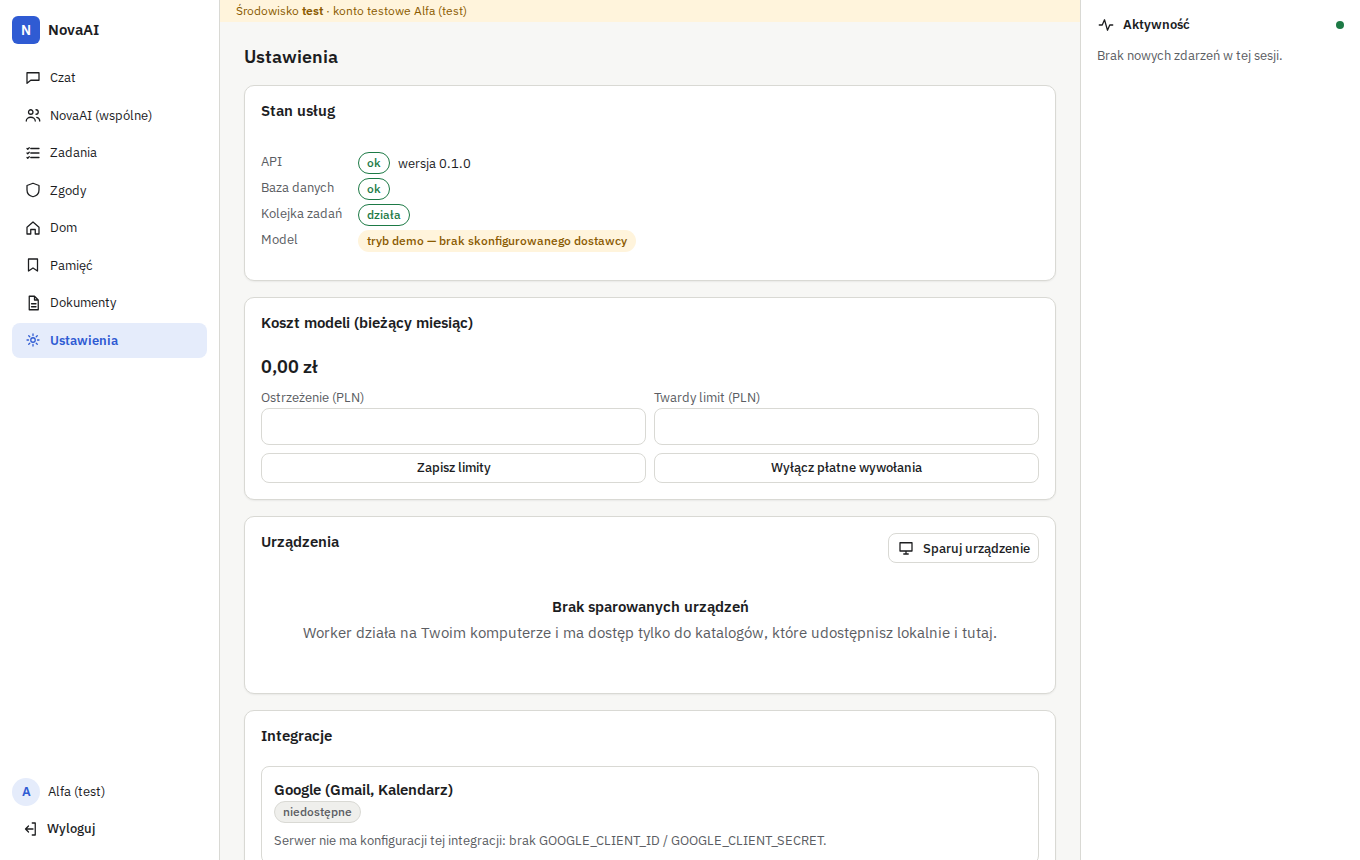
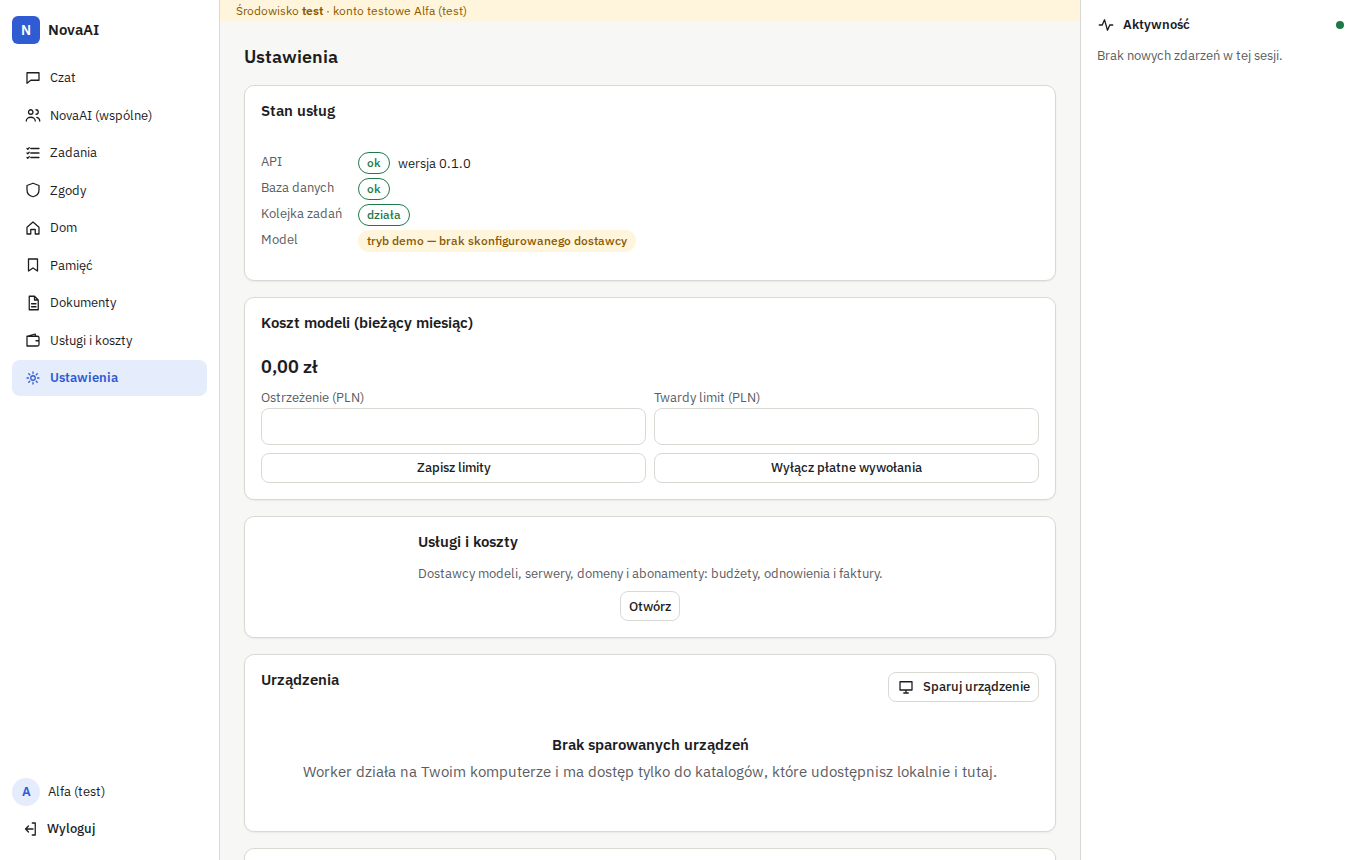
Document "Usługi i koszty" and update progress
- DECISIONS D-029: data model and privacy, one-source-per-month counting
  rule, currencies without conversion, budgets, invoice deduplication and
  CSV import, renewal reminders, no-secrets rules, Anthropic and OpenAI
  cost adapters (docs verified 2026-09-26) and their "not connected" state
- README: how to use the module and the optional admin keys
- PROGRESS: status row, stage log with test results, blockers and next
  tasks; adapters marked as verified only on a local mock
- Screenshots refreshed from e2e, including the services list and detail

Claude-Session: https://claude.ai/code/session_01KegcN2PT624rRNH8yhAa8R

diff --git a/docs/PROGRESS.md b/docs/PROGRESS.md
@@ -17,6 +17,7 @@ Aktualizowane po każdej pionowej funkcji. Tylko fakty potwierdzone poleceniami 
 | Utwardzenie              | gotowe    | limity tras bez sesji, redakcja URL w logach, `NOVA_TRUST_PROXY`, sprzątanie wygasłych artefaktów                                 |
 | Ścieżka produkcyjna      | częściowe | bundel API + frontend z API + CSP, smoke w `NOVA_ENV=production`; bez realnego serwera, TLS i domeny                              |
 | Pamięć dokumentów        | gotowe*   | PDF/TXT/Markdown, indeksowanie, wyszukiwanie po uprawnieniach, źródła w odpowiedzi, UI; *model tylko jako atrapa                  |
+| Usługi i koszty          | gotowe*   | rejestr usług, koszty i faktury, budżety, odnowienia; *adaptery raportów kosztów tylko na atrapie — niepodłączone                 |
 
 ## Dziennik
 
@@ -381,6 +382,48 @@ odtwarzającej kontrakt z dokumentacji (sprawdzonej 2026-09-26; źródła i decy
   `pnpm check` → 4/4, 27/27, 240/240, 5/5; `pnpm test:e2e` → 30/30; `pnpm test:prod-smoke` → 1/1.
 - Niesprawdzone: przeglądarka zgłaszającego (wersja nieznana) — zachowanie odtworzone symulacją.
 
+### Usługi i koszty (2026-09-26)
+
+Gałąź `claude/novaai-services-costs` od `claude/novaai-slack` (najnowsza gałąź z pamięcią dokumentów). Decyzje:
+`docs/DECISIONS.md` D-029.
+
+- Migracja `0013_services_costs.sql`: `services`, `service_costs`, `cost_adapter_runs`; RLS jak w dokumentach
+  (prywatne — właściciel; wspólne — domownicy czytają; zapis tylko właściciel). Polityka: `service.read/create/manage/
+share/unshare` (agent nie tworzy ani nie zmienia usług).
+- API: lista i szczegóły usług ze stanem miesiąca, suma miesiąca (`/api/costs/summary`), wpisy kosztów, import faktur
+  CSV, udostępnianie, „odnowiono”, adaptery (`/api/cost-adapters`, synchronizacja na żądanie).
+- Suma miesiąca: faktura > raport dostawcy > szacunek w obrębie usługi i miesiąca (bez podwójnego liczenia); szacunek
+  z zapisanych kosztów wywołań modeli; waluty osobno, bez przeliczania; budżet tylko w walucie usługi; jedno
+  powiadomienie o przekroczeniu na usługę i miesiąc.
+- Odnowienia: przypomnienia w trwałej kolejce (N dni wcześniej, 9:00 czasu polskiego), przestawiane i anulowane razem
+  z usługą; „odnowiono” zachowuje dzień miesiąca.
+- Bez haseł i kluczy: odrzucane pola wyglądające na sekrety i linki z danymi logowania; klucze administracyjne
+  adapterów tylko w konfiguracji serwera.
+- Adaptery Anthropic (Cost API) i OpenAI (Costs API) według dokumentacji z 2026-09-26; stan „niepodłączone” do czasu
+  udanej synchronizacji. **Nie sprawdzone na prawdziwych kontach** — brak kluczy administracyjnych.
+- UI: widok „Usługi i koszty” (menu boczne; na telefonie przez Ustawienia) — suma miesiąca z podziałem na faktury
+  opłacone / do zapłaty, raporty i szacunki, karty usług z budżetem i odnowieniem, szczegóły z wpisami (wpisy
+  niewliczone oznaczone), dodawanie kosztu, import CSV, udostępnianie, panel adapterów. Walidacja pokazuje konkretny
+  powód (np. „Nie wpisuj tu haseł ani kluczy API”). Zrzuty: `docs/screens/*-15-services.png`, `*-16-service-detail.png`.
+- Testy (`apps/api/src/services/services.test.ts`, 16): **izolacja** Alfa/Beta (API i RLS, udostępnienie tylko do
+  odczytu, cofnięcie, zakres NovaAI, dostawca modeli przypisany do cudzej usługi bez ujawniania nazwy); **brak
+  podwójnego liczenia** (szacunek → raport → faktura, szacunek z wywołań modeli zastąpiony fakturą, osobne miesiące);
+  **waluty** (USD/EUR/JPY osobno, budżet tylko w walucie usługi, miejsca po przecinku per waluta, nieznany kod);
+  **odnowienia** (termin i strefa czasowa, zmiana daty, anulowanie, wspólne przypomnienie dostarczone obojgu,
+  „odnowiono” 31.01 → 28/29.02 → 31.03, kwartał, rok przestępny); **budżet** (blisko limitu, przekroczenie, jedno
+  powiadomienie, faktura niższa niż raport); **powtórny import faktury** (numer z inną wielkością liter, CSV dwa razy,
+  faktura bez numeru, błędny CSV bez częściowego zapisu); **sekrety**; **adaptery** na atrapie (brak klucza,
+  stronicowanie, centy jako tekst dziesiętny, aktualizacja bez duplikatów, błąd klucza ⇒ „błąd”, OpenAI w dolarach,
+  synchronizacja tylko przez właściciela, brak kluczy w odpowiedziach i audycie). Kontrola testów: liczenie wszystkich
+  źródeł naraz i losowy klucz deduplikacji faktur powodowały porażki odpowiednich testów.
+- e2e `apps/web/e2e/services.spec.ts` (desktop + telefon): dodanie usługi, odrzucone hasło w notatkach, szacunek →
+  raport → faktura (liczona tylko faktura), przekroczony budżet, odrzucona ta sama faktura, adaptery „niepodłączone”,
+  udostępnienie Becie tylko do odczytu.
+- Polecenia i wyniki: `pnpm check` → contracts 4/4, permissions 29/29, api 256/256 (w tym usługi 16), web 5/5;
+  `pnpm test:e2e` → 32/32; `pnpm test:prod-smoke` → 1/1; `pnpm worker:test` → 18/18.
+- Niesprawdzone: synchronizacja z prawdziwymi kontami Anthropic i OpenAI (klucze administracyjne), zachowanie
+  przy dużych organizacjach (wiele stron raportu), adaptery innych dostawców (VPS, domeny — wpisy ręczne).
+
 ## Blokady
 
 - Brak demona Docker w sesji zdalnej — `infra/compose.yaml` nieprzetestowany tutaj (używany lokalny klaster).
@@ -394,6 +437,8 @@ odtwarzającej kontrakt z dokumentacji (sprawdzonej 2026-09-26; źródła i decy
   `MICROSOFT_CLIENT_ID/SECRET`, `MICROSOFT_TENANT`. Slack: aplikacja wewnętrzna z zakresami użytkownika, redirect
   HTTPS, Event Subscriptions (README → Integracje), `SLACK_CLIENT_ID/SECRET`, `SLACK_SIGNING_SECRET`.
   Wszystkie wymagają `NOVA_SECRET_KEY`.
+- Brak kluczy administracyjnych Anthropic/OpenAI — adaptery raportów kosztów sprawdzone tylko na atrapie
+  (`ANTHROPIC_ADMIN_API_KEY`, `OPENAI_ADMIN_API_KEY`; Admin API Anthropic niedostępne dla kont indywidualnych).
 - Brak kluczy API i instalacji Hermesa — adaptery modeli nie były uruchomione przeciwko prawdziwym usługom
   (świadomie: zakaz płatnych wywołań). Ceny modeli do uzupełnienia przez właściciela z oficjalnego cennika.
 
@@ -412,9 +457,9 @@ odtwarzającej kontrakt z dokumentacji (sprawdzonej 2026-09-26; źródła i decy
 ## Następne 3 zadania
 
 1. Uruchomienie z prawdziwymi usługami przez właściciela: klucz modelu + cennik w `models.local.json`, klienci OAuth
-   Google i Microsoft oraz aplikacja Slack (README → Integracje) i sprawdzenie na własnych kontach (logowanie, odczyt,
-   szkic/wysyłka po zgodzie, odłączenie i cofnięcie zgody, zdarzenia Slack), Worker na Windows.
+   Google i Microsoft, aplikacja Slack, klucze administracyjne raportów kosztów (README → Integracje) i sprawdzenie na
+   własnych kontach; Worker na Windows.
 2. Konfiguracja wdrożenia przez właściciela: reverse proxy z TLS (także redirect HTTPS dla Slacka), kopie zapasowe
-   Postgres, usługa systemowa dla `start:prod`.
-3. Poczta, Slack i dokumenty z prawdziwym modelem: ocena odporności na wstrzyknięcia (treść e-maili, wiadomości Slack,
-   dokumenty) i jakości odpowiedzi na zestawie pytań; potem Web Push (VAPID).
+   Postgres, usługa systemowa dla `start:prod`; wpisanie tych usług i ich kosztów w „Usługi i koszty”.
+3. Poczta, Slack i dokumenty z prawdziwym modelem: ocena odporności na wstrzyknięcia i jakości odpowiedzi; potem
+   Web Push (VAPID) i ewentualnie automatyczna synchronizacja raportów kosztów w tle.

diff --git a/docs/DECISIONS.md b/docs/DECISIONS.md
@@ -412,3 +412,57 @@ no-store`, tokenem pytającej osoby) oraz dla modelu w turze uzupełniającej (n
   ponowienie przetwarza zdarzenie. Odpowiedź w < 3 s (tylko operacje w bazie). Inne zdarzenia: `ignored`, bez treści.
 - Poza zakresem: powiadomienia push o nowych wzmiankach (wymagałyby subskrypcji zdarzeń wiadomości i zakresów
   `*:history`), pliki, reakcje, edycja i usuwanie wiadomości, instalacje Enterprise Grid (org-wide).
+
+## D-029 Usługi i koszty: rejestr usług, jedna opłata liczona raz, adaptery raportów kosztów
+
+Źródła adapterów (sprawdzone 2026-09-26): Anthropic — Usage and Cost API
+(platform.claude.com/docs/en/manage-claude/usage-cost-api) i referencja „Get Cost Report”
+(platform.claude.com/docs/en/api/beta/organization/cost_report/retrieve); OpenAI — Costs API (opis i przykład
+odpowiedzi w developers.openai.com/cookbook/examples/completions_usage_api; strona referencji API była niedostępna
+dla pobierania automatycznego). **Adaptery nie zostały sprawdzone na prawdziwych kontach** — tylko na atrapie.
+
+- Dane: `services` (cel, właściciel, link do panelu, okres rozliczeniowy, waluta, plan, data odnowienia, dni
+  przypomnienia, miesięczny budżet, status, notatki) i `service_costs` (szacunek / raport dostawcy / faktura;
+  faktura opłacona = z datą zapłaty). Kwoty w mikro-jednostkach (jak `usage_records`), bez liczb zmiennoprzecinkowych.
+  Waluta ISO 4217 (Intl); wpis ręczny nie może mieć więcej miejsc po przecinku niż waluta (JPY 0, PLN 2).
+- Prywatność jak w pozostałych danych: prywatna usługa — tylko właściciel; wspólna — członkowie domu czytają,
+  zmienia wyłącznie właściciel (polityka `service.*` + RLS; wpisy kosztów widoczne razem z usługą). Moduł nie ma
+  narzędzi agenta — modele nie zmieniają usług ani kosztów.
+- **Każda opłata liczona raz**: w obrębie jednej usługi i jednego miesiąca suma bierze jedno źródło — faktury, a gdy
+  ich nie ma, raport dostawcy, a dopiero potem szacunek (wpisy ręczne + koszt zapisanych wywołań modeli). Wpisy
+  „przegrane” są pokazywane jako niewliczone. Dostawca modeli i adapter kosztów mogą być przypisane do najwyżej jednej
+  usługi w domu (unikalny indeks), więc ten sam koszt nie trafi do dwóch usług; odmowa nie ujawnia cudzej usługi.
+- Szacunek z wywołań modeli: `usage_records` danego domu i dostawcy z konfiguracji modeli (płatne, bez nieudanych).
+  Miesiące w UTC — tak liczą raporty dostawców.
+- Waluty nie są sumowane ani przeliczane: suma miesiąca i sumy usług są osobno dla każdej waluty; budżet porównuje
+  tylko kwoty w walucie usługi (inne waluty są wskazane jako nieporównane). Stan budżetu: „blisko” od 80 %,
+  „przekroczony” powyżej 100 %; jedno powiadomienie na usługę i miesiąc (klucz idempotencji), dla właściciela albo
+  — przy usłudze wspólnej — dla domowników.
+- Faktury: deduplikacja w obrębie usługi po znormalizowanym numerze (wielkość liter, spacje), a bez numeru — po dacie
+  wystawienia (lub miesiącu), kwocie i walucie. Import CSV (`numer;data_wystawienia;kwota;waluta;miesiac;data_zaplaty`)
+  najpierw waliduje całość (błędy z numerami linii ⇒ nic nie jest zapisane), a powtórny import pomija zapisane faktury.
+- Odnowienia: przypomnienie przez trwałą kolejkę `N` dni przed datą o 9:00 czasu polskiego (czas letni uwzględniony);
+  zmiana daty, statusu lub widoczności przestawia przypomnienie, anulowanie/usunięcie usługi je odwołuje. Termin już
+  bliski ⇒ przypomnienie od razu; data minęła lub dalej niż rok ⇒ ostrzeżenie zamiast przypomnienia. „Odnowiono”
+  przesuwa datę o okres (miesiąc, kwartał, rok) z zachowaniem dnia miesiąca (31.01 → 28/29.02 → 31.03); usługi
+  jednorazowe i rozliczane za użycie — data ręcznie.
+- Bez haseł i kluczy: pola wyglądające na klucze API, tokeny lub hasła są odrzucane z komunikatem; link do panelu tylko
+  `https://`, bez danych logowania i parametrów typu `token`/`key`. Klucze administracyjne adapterów tylko w
+  zmiennych środowiskowych serwera (`ANTHROPIC_ADMIN_API_KEY`, `OPENAI_ADMIN_API_KEY`); API zwraca wyłącznie
+  „klucz skonfigurowany: tak/nie”, audyt i błędy synchronizacji nie zawierają kluczy.
+- Adaptery (odczyt raportów organizacji, rozszerzalny interfejs `CostAdapter`):
+  - Anthropic: `GET /v1/organizations/cost_report`, nagłówki `x-api-key` (klucz administracyjny `sk-ant-admin…`)
+    i `anthropic-version: 2023-06-01`, kubełki dzienne (`limit` ≤ 31), stronicowanie `has_more`/`next_page`; kwota
+    to tekst dziesiętny w centach, waluta USD. Admin API niedostępne dla kont indywidualnych; koszty Priority Tier
+    poza raportem; dane pojawiają się zwykle w ciągu ok. 5 minut, zalecane odpytywanie najwyżej raz na minutę.
+  - OpenAI: `GET /v1/organization/costs`, `Authorization: Bearer` z kluczem administracyjnym, `start_time`/`end_time`
+    w sekundach Unix, `bucket_width=1d`, `limit` 1–180, stronicowanie `has_more`/`next_page`; `amount.value`
+    w dolarach, `amount.currency` („usd”).
+  - Synchronizacja na żądanie właściciela usługi z przypisanym adapterem: poprzedni i bieżący miesiąc, jeden wpis
+    „raport dostawcy” na miesiąc i walutę, aktualizowany przy kolejnej synchronizacji (bez duplikatów).
+  - Stan w UI: „niepodłączone” (brak klucza / brak udanej synchronizacji / błąd ostatniej próby) dopóki
+    synchronizacja rzeczywiście się nie uda; „podłączone” tylko po udanej synchronizacji.
+- Poza zakresem: adaptery VPS, domen i kopii zapasowych (wpisy ręczne lub import CSV), automatyczna synchronizacja
+  w tle, przeliczanie walut, korekty ujemne (zwroty) — do rozważenia z aktualną dokumentacją każdego dostawcy.
+- Gałąź bazowa: `claude/novaai-slack` — najnowsza gałąź z pamięcią dokumentów (zawiera też Microsoft, Slack
+  i poprawkę czarnego ekranu).

diff --git a/README.md b/README.md
@@ -92,6 +92,10 @@ lokalnie jednorazowo `pnpm --filter @nova/web exec playwright install chromium`.
    `szukaj na slacku: rachunek`, `napisz na slacku do C0123ABCD: treść`,
    `odpowiedz na slacku w C0123ABCD 1758790400.000500: treść`. Treść ze Slacka pokazuje przycisk „Pokaż na żywo” —
    NovaAI jej nie zapisuje. Wysyłka zawsze czeka na zgodę.
+9. **Usługi i koszty** (menu boczne; na telefonie: Ustawienia → Usługi i koszty) — lista usług NovaAI (modele API,
+   VPS, bazy, domeny, kopie zapasowe, abonamenty) z budżetem, datą odnowienia (przypomnienie) i linkiem do panelu;
+   wpisy kosztów: szacunek, raport dostawcy, faktura (ręcznie lub import CSV). Suma miesiąca liczy każdą opłatę raz
+   (faktura > raport > szacunek), osobno dla każdej waluty. Bez haseł i kluczy API.
 
 ## Integracje (opcjonalnie, własne konta)
 
@@ -111,6 +115,11 @@ tokenów). Każdy użytkownik łączy własne konto w Ustawieniach; NovaAI nie w
    `offline_access`, `openid`, `profile`; `Mail.ReadWrite` tylko jeśli chcesz szkice w Outlooku. Aplikacja i tak
    prosi tylko o uprawnienia zaznaczone przez użytkownika przy łączeniu.
 
+**Raporty kosztów (Usługi i koszty)** — opcjonalne klucze administracyjne tylko do odczytu kosztów organizacji:
+`ANTHROPIC_ADMIN_API_KEY` (Claude Console → Admin keys; niedostępne dla kont indywidualnych) i
+`OPENAI_ADMIN_API_KEY`. Bez nich adaptery są „niepodłączone”, a koszty wpisuje się ręcznie. Po ustawieniu klucza
+przypisz adapter do usługi i użyj „Synchronizuj raport” — dopiero udana synchronizacja zmienia stan na „podłączone”.
+
 **Slack** — aplikacja w api.slack.com/apps utworzona w Twoim workspace (aplikacja wewnętrzna — wyszukiwanie dla
 aplikacji działa tylko dla aplikacji wewnętrznych lub opublikowanych w Slack Marketplace):
 
@@ -124,7 +133,7 @@ aplikacji działa tylko dla aplikacji wewnętrznych lub opublikowanych w Slack M
 
 W organizacji administrator może wymagać zatwierdzenia aplikacji (wtedy Microsoft pokazuje prośbę o zgodę
 administratora, a Slack — prośbę o zatwierdzenie instalacji). Teams nie jest zaimplementowany — wymaga zgody administratora (`ChannelMessage.Read.All`) i kont
-służbowych. Szczegóły, endpointy i ograniczenia: `docs/DECISIONS.md` (D-019 Google, D-027 Microsoft, D-028 Slack).
+służbowych. Szczegóły, endpointy i ograniczenia: `docs/DECISIONS.md` (D-019 Google, D-027 Microsoft, D-028 Slack, D-029 Usługi i koszty).
 
 ## Struktura
 
